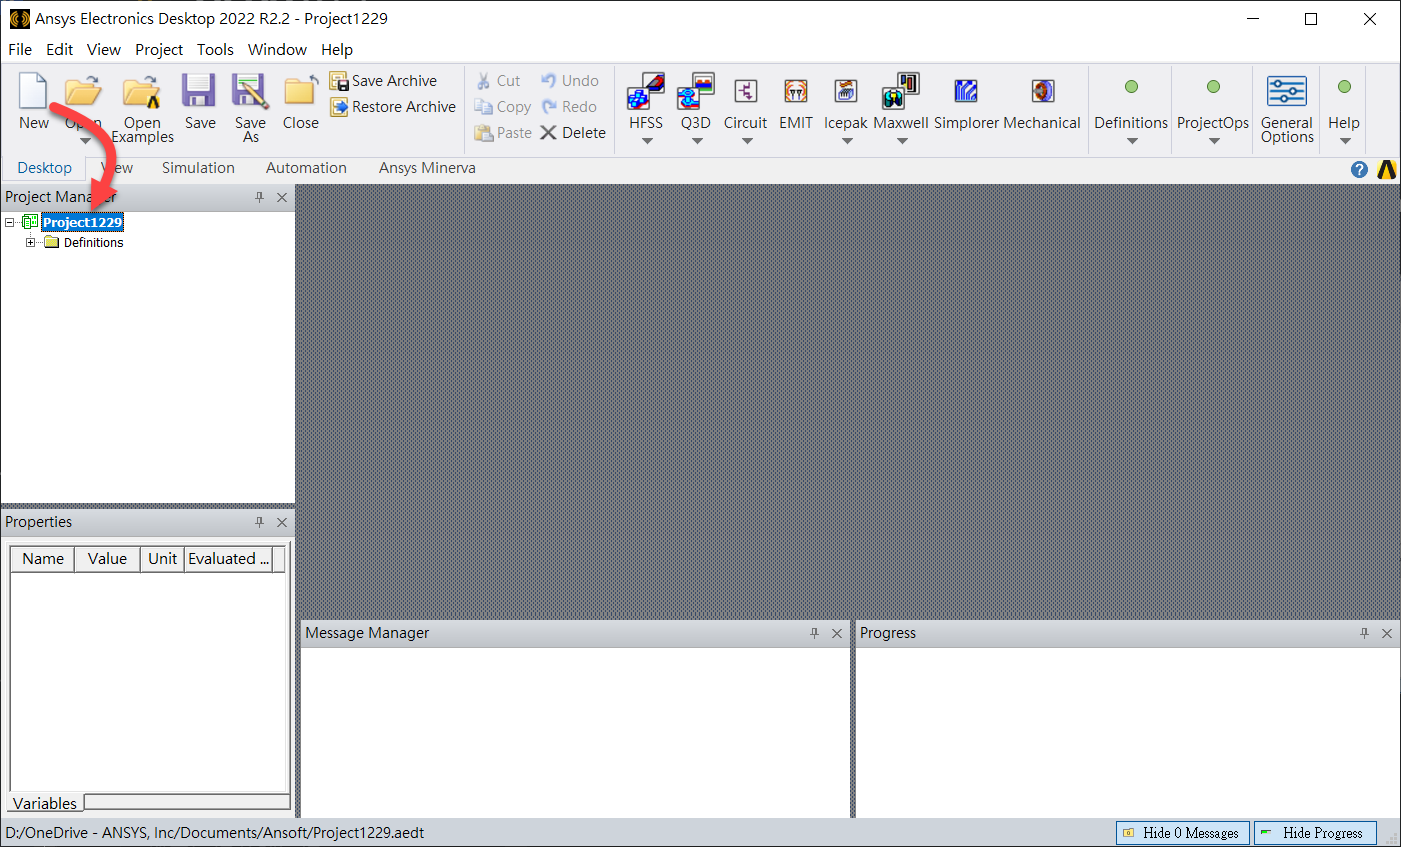
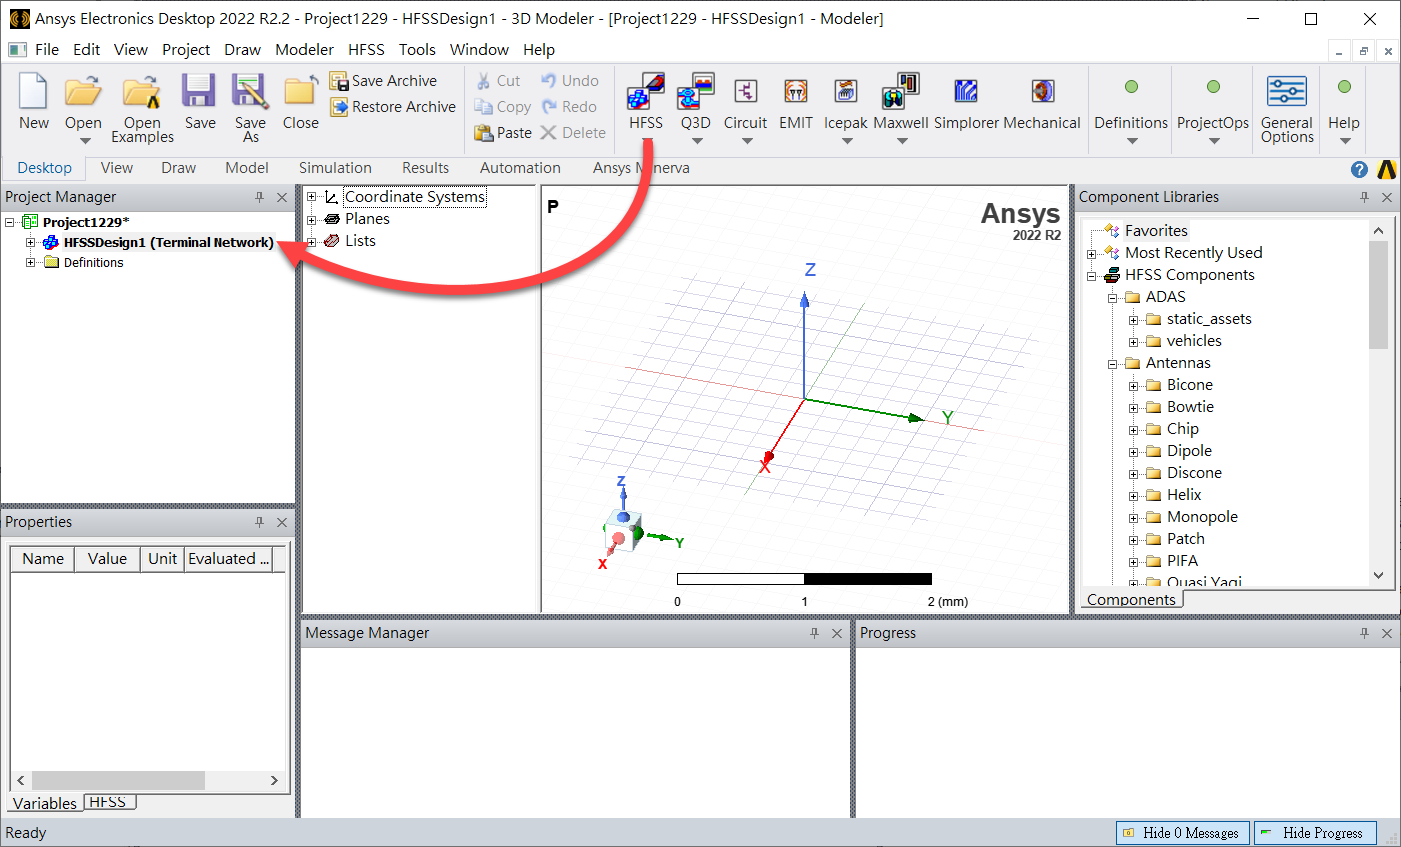
GitBook: [#99] No subject

diff --git a/aedt-an-zhuang-yu-ji-ben-huan-jing-jie-shao/qi-dong-ji-chu-shi-hua-mian.md b/aedt-an-zhuang-yu-ji-ben-huan-jing-jie-shao/qi-dong-ji-chu-shi-hua-mian.md
@@ -8,8 +8,8 @@ description: 開啟AEDT，建立新專案，在專案當中插入新HFSS設計
 
 ### 開啟之後建立新專案
 
-<figure><img src="../.gitbook/assets/image (1).png" alt=""><figcaption></figcaption></figure>
+<figure><img src="../.gitbook/assets/image (1) (7).png" alt=""><figcaption></figcaption></figure>
 
 ### 專案當中添加新的HFSS設計
 
-<figure><img src="../.gitbook/assets/image.png" alt=""><figcaption></figcaption></figure>
+<figure><img src="../.gitbook/assets/image (1).png" alt=""><figcaption></figcaption></figure>

diff --git a/hfss-she-ji-huan-jing-jie-shao/cai-liao-ku.md b/hfss-she-ji-huan-jing-jie-shao/cai-liao-ku.md
@@ -5,3 +5,9 @@
 材料庫歸屬於專案當中，專案當中的每個設計都讀取到同一組材料庫。預設材料庫已存放上百種常用材料參數，使用者也可以自行加入新的材料。
 
 <figure><img src="../.gitbook/assets/image (4) (4) (1) (1) (1).png" alt=""><figcaption></figcaption></figure>
+
+加入新材料
+
+![](<../.gitbook/assets/image (8).png>)
+
+<figure><img src="../.gitbook/assets/image.png" alt=""><figcaption></figcaption></figure>

diff --git a/hfss-she-ji-huan-jing-jie-shao/shi-chuang-shuo-ming.md b/hfss-she-ji-huan-jing-jie-shao/shi-chuang-shuo-ming.md
@@ -50,7 +50,7 @@ Component Libraries(元件庫視窗)
 
 內建常用3D模型庫
 
-![](<../.gitbook/assets/image (8).png>)
+![](<../.gitbook/assets/image (8) (2).png>)
 
 ### 視窗布局、開啟與關閉
 
